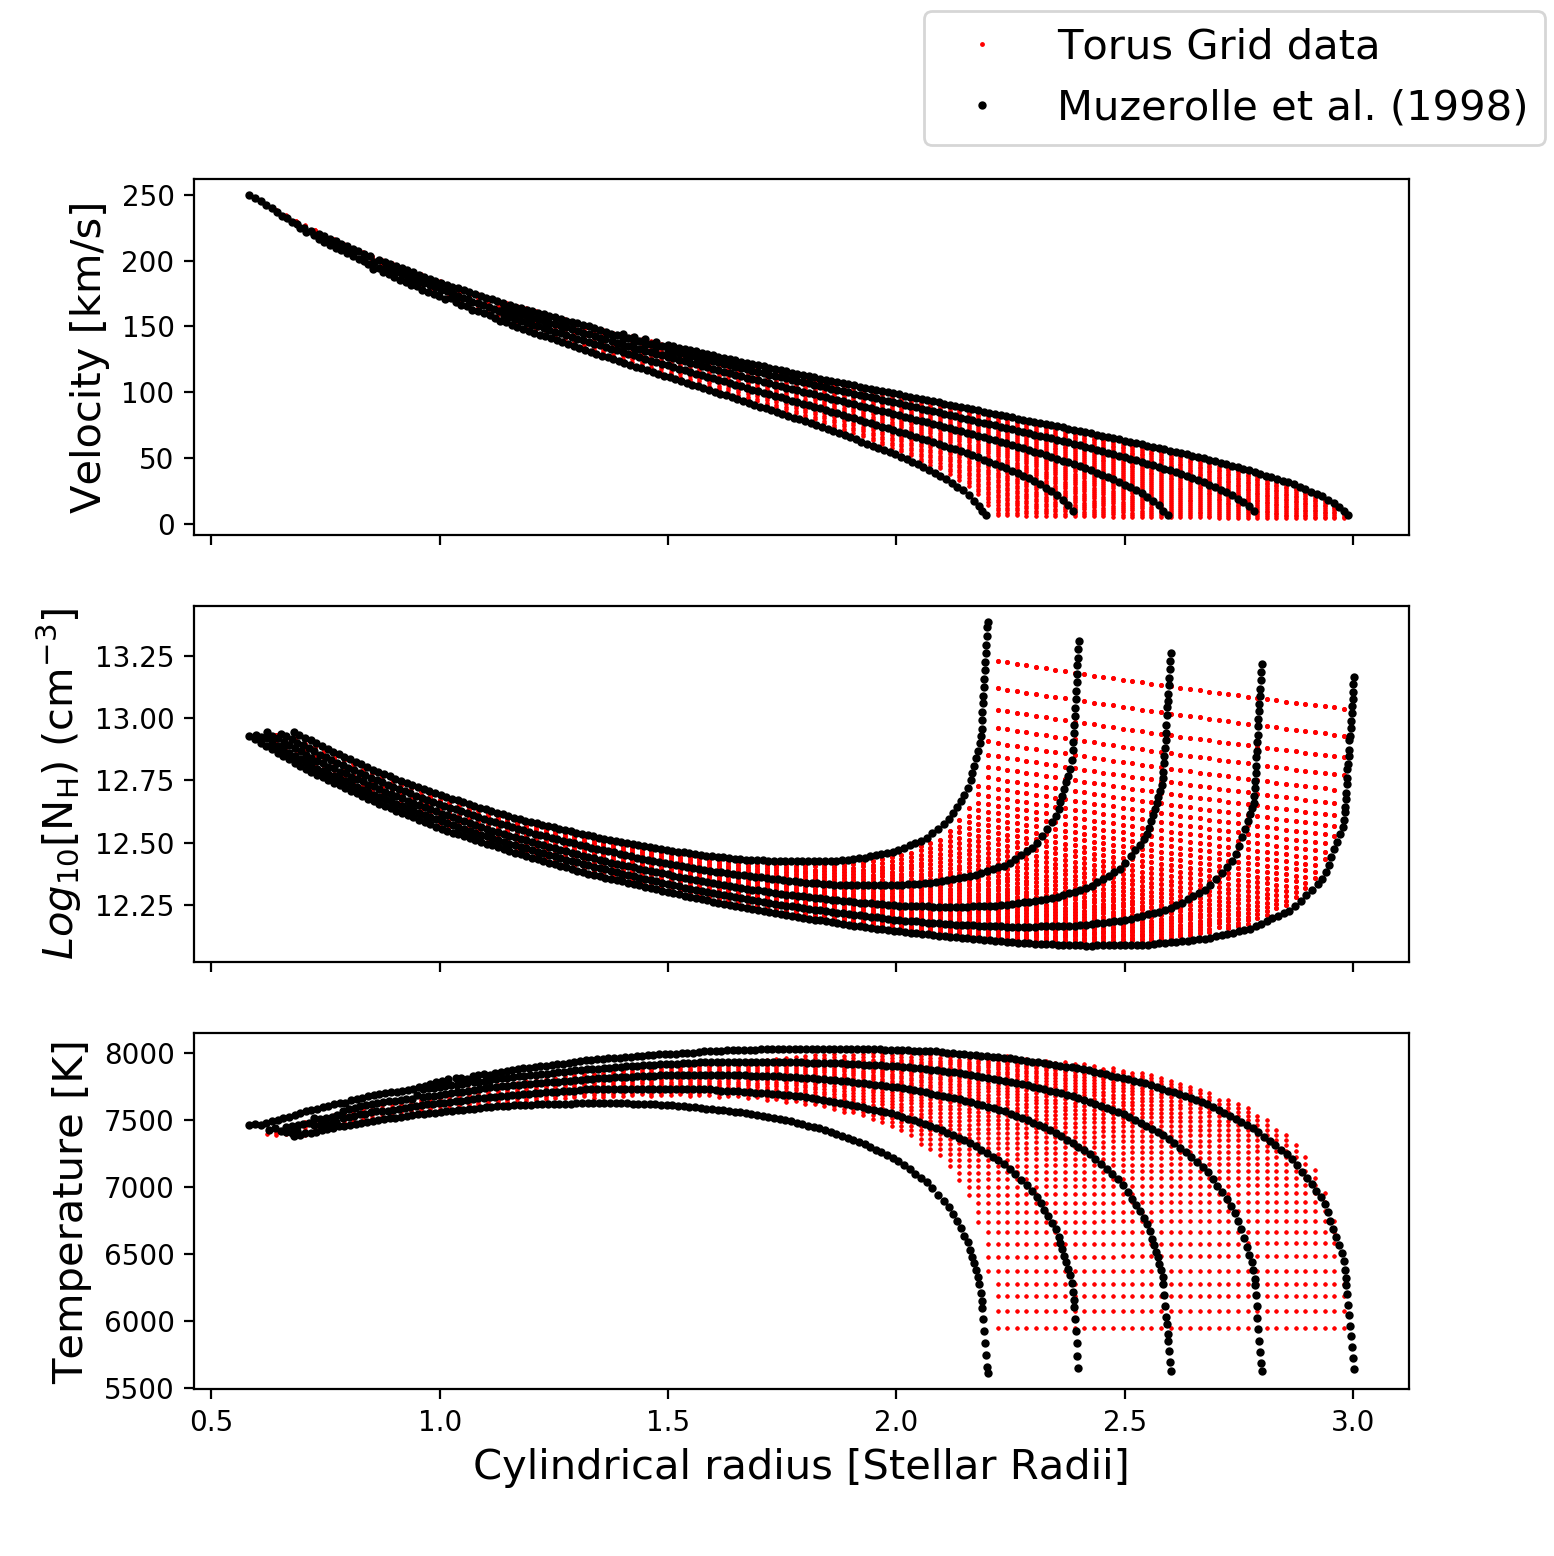
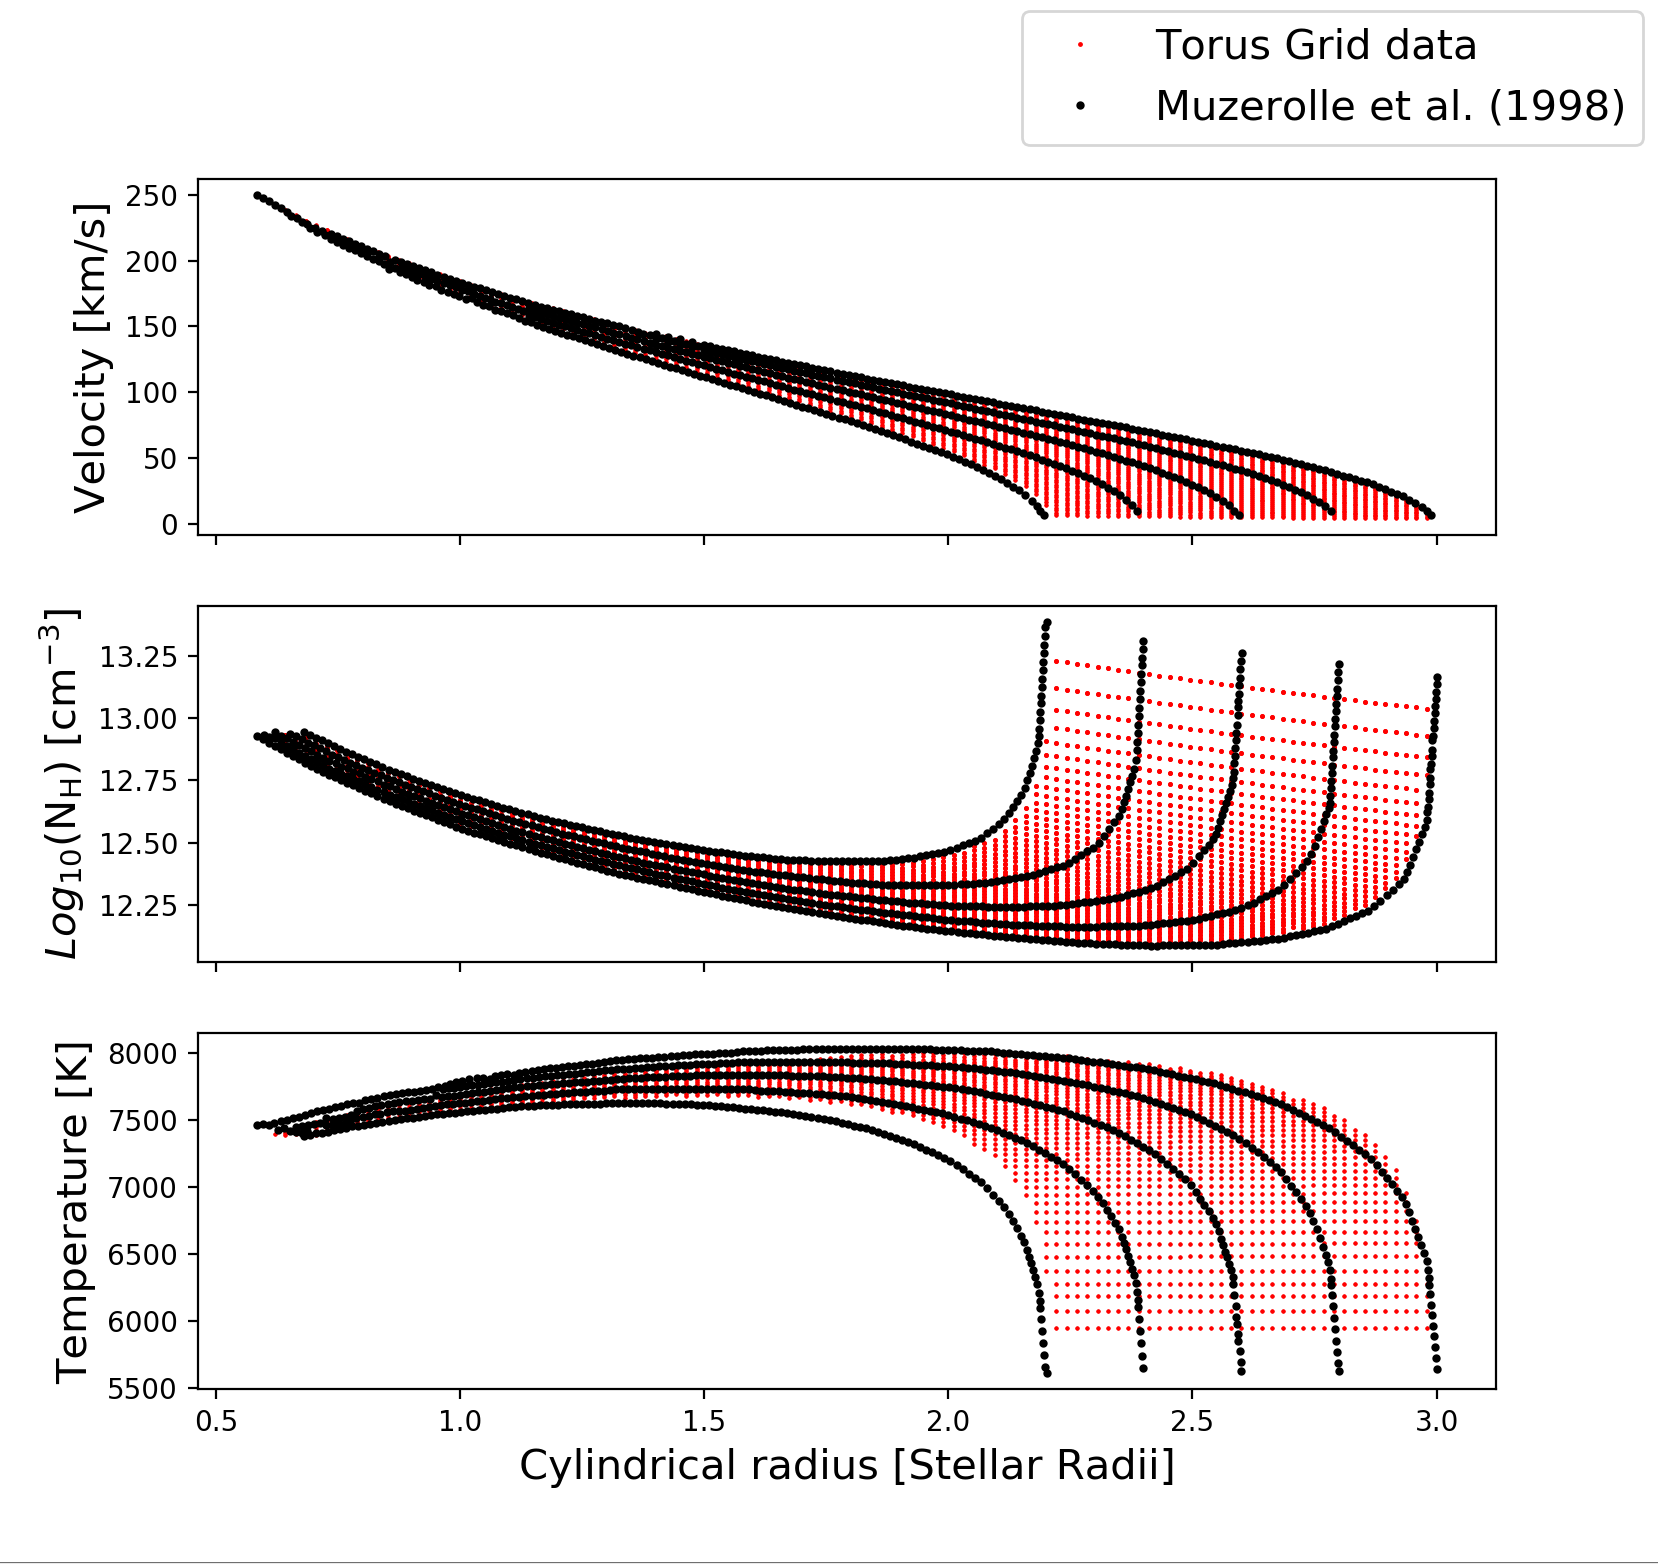
stuff

diff --git a/main.tex b/main.tex
@@ -100,7 +100,7 @@ Understanding the mechanism by which collapsing interstellar clouds lose angular
 Progenitors to Sun-like objects are T Tauri stars. These are low mass ($\lesssim 2 \textrm{M}_\odot$) pre-main sequence stars which show evidence of accretion from a surrounding accretion disk~\citep{1998ApJ...495..385H}. These young stars ($\lesssim3\times10^{6}~\textrm{yrs}$) have strong H$\alpha$ emission and excess UV and infrared continuum emission~\citep{2005MNRAS.358..671K}. The line profiles exhibit both blue shifted absorption and inverse P Cygni features thought to be evidence of outflows and inflows, respectively. Observed accretion rates ($10^{-9}~\textrm{to}~10^{-7}~{\rm M_{\odot} yr^{-1}}$) are expected to be great enough to transfer enough AM to the star to spin it up to well above break up angular velocity $\Omega_B = \sqrt{GM_{*}/R_{*}^3}$~\citep{2005ApJ...632L.135M} where $M_{\ast}$ and $R_{\ast}$ are the stellar mass and radius respectively. However, a relevant fraction of these stars are rotating well below their rotation limit~\citep{1993A&A...272..176B}, and during the few million years of their accretion phase, their rotation remains fairly constant. In this phase of their evolution, these protostars are still accreting and contracting at rates that should spin them up to break velocity within $\sim10^{6}~{\rm yrs}$~\citep{2009A&A...508.1117Z}. There must be an efficient mechanism to spin down the rotation of the T Tauri stars. 
 
 
-It is widely accepted that T Tauri stars have accretion disks. Infrared excess and accretion signatures point to their presence. In recent years interferometric observations have confirmed the presence of disks around young stellar objects, for example, the slightly larger Herbig star system shown by \cite{2012ApJ...752...11K} to have a circumstellar disk. The accretion mechanism of T Tauri stars is thought to be dominated by the strong magnetic fields present, $\sim 10^{3}~\textrm{G}$~\citep{2012MNRAS.426.2901K}. \citet{1991ApJ...370L..39K} proposed that the accretion mechanism is similar to that of neutrons stars proposed by~\citet{1977ApJ...217..578G}. The magnetic field truncates the accretion radius at some radii $R_T$. where the magnetic and material stresses are of the same order; $B^2/8\pi = p + \rho v^2$, where $B$, $p$, $\rho$ and $v$ are the magnetic field, pressure, density, and velocity respectively~\citep{Romanova:2002hc}. Material is lifted from the disk and free-falls to the stellar surface where it forms a shock region, as the infalling matter exceeds the sound speed of the plasma. The large energy release in these shock zones could be responsible for the high UV excess observed~\citep{2009A&A...508.1117Z}. The accreting matter carries AM to the star and acts to `spin-up' the star. For a given accretion rate $\dot{M}_{acc}$ the `spin-up' rate can be quantified as a torque~\citep{2005ApJ...632L.135M}
+It is widely accepted that T Tauri stars have accretion disks. Infrared excess and accretion signatures point to their presence. In recent years interferometric observations have confirmed the presence of disks around young stellar objects, for example, the slightly larger Herbig star system shown by \cite{2012ApJ...752...11K} to have a circumstellar disk. The accretion mechanism of T Tauri stars is thought to be dominated by the strong magnetic fields present, $\sim 10^{3}~\textrm{G}$~\citep{2012MNRAS.426.2901K}. \citet{1991ApJ...370L..39K} proposed that the accretion mechanism is similar to that of neutrons stars proposed by~\citet{1977ApJ...217..578G}. The magnetic field truncates the accretion radius at some radii $R_T$ (see Figure~\ref{fig:accretionflow}). where the magnetic and material stresses are of the same order; $B^2/8\pi = p + \rho v^2$, where $B$, $p$, $\rho$ and $v$ are the magnetic field, pressure, density, and velocity respectively~\citep{Romanova:2002hc}. Material is lifted from the disk and free-falls to the stellar surface where it forms a shock region, as the infalling matter exceeds the sound speed of the plasma. The large energy release in these shock zones could be responsible for the high UV excess observed~\citep{2009A&A...508.1117Z}. The accreting matter carries AM to the star and acts to `spin-up' the star. For a given accretion rate $\dot{M}_{acc}$ the `spin-up' rate can be quantified as a torque~\citep{2005ApJ...632L.135M}
 
 \begin{equation}
     \tau_{acc} = \dot{M}_{acc}\sqrt{GM_{\ast}R_{T}}.
@@ -211,6 +211,13 @@ The observed flux for a cell of the grid image is the summation of the specific 
 
 \section{The models}
 \label{sec:model}
+
+\begin{figure}
+    \centering
+    \includegraphics[width=\linewidth]{figures/Accretion}
+    \caption{A diagram showing the accretion flow and the density of the flow for a typical set up with an accretion rate of $10^{-7}$ solar masses per year.}
+    \label{fig:accretionflow}
+\end{figure}
 TORUS uses an adaptive mesh refinement (AMR) to create a grid of cell through which it can compute the level populations and intensities.  A numerical grid representing the physical space of the simulation is created, and the coarseness of the cells is adapted to balance both the accuracy of the simulation and the efficiency. Too coarse a grid will lose details and may miss features such as areas of high opacity, whereas too fine a grid will run excessively slow and consume large amounts of computational resources.
 
 The work here presents the simulation of T Tauri star-disk systems. For this, the mesh is populated with a star, disk, accretion flow and potentially outflows. The density, temperatures and velocities fields are defined to simulate a T Tauri system. Future work will load in this data as an output from MHD simulations, but at present, this is done analytically. TORUS can include He in the simulations although this is as yet unvalidated. 
@@ -218,7 +225,7 @@ The work here presents the simulation of T Tauri star-disk systems. For this, th
 The star is placed at the origin of the grid and assumed to have an atmosphere as modelled by~\citet{1979ApJS...40....1K}. The disk is treated as a geometrically thin, optically thick disk. Rays that intersect with it are terminated, no continuum or dust emission from the disk is currently included in the model, although this will be implemented in future work.
 
 \subsection{Accretion Funnel}
-\label{sec:accretionflow}
+\label{sec:accretion}
 The geometry and parameters of the accretion flow are similar to those described by \citet{1998ApJ...495..385H}. The inner radius of the accretion flow is where the disk is truncated $R_{T}$. The outer radius $R_{\rm out}$ of the accretion flow is assumed to be the corotation radius, to avoid a ring of rapid acceleration where the disk spins up or down to match the magnetic field which is rotating as a rigid body with the star. Although MHD simulation show a twisting of the magnetic fields~\citep[e.g.][]{Uzdensky:2002dg} this is ignored in these simulation and the magnetic field is assumed to have only a poloidal component.
 
 The accreting matter free flows following the dipole magnetic field impacting on the surface of the star creating a hot spot. The temperature of the hot spot is calculated from the potential energy liberated as the matter falls to a lower radius.
@@ -244,16 +251,32 @@ The density of the accretion flow is taken from~\citep{Hartmann:1994tl}. For an 
 \begin{equation}
     \rho = \frac{\dot{M}_{\rm acc}}{4\pi(1/R_T - 1/R_{\rm out})}\frac{R^{-5/2}}{\sqrt{2GM_{\ast}}}\frac{\sqrt{4-3\sin^2\theta}}{\sqrt{1-\sin^2\theta}}
 \end{equation}
-The temperature distribution of the accretion flow is more problematic. The synthetic emission lines are very sensitive to temperature variations in these regions but exact mechanism of heating is debated. The temperature profile adopted is similar that used by~\citet{Hartmann:1994tl,1998AJ....116..455M} which assumes a volumetric heating $\propto R^{-3}$ balanced by radiative cooling. Figure~\ref{fig:density} shows the temperature, density and velocity distributions used in our models compared to those used by~\citet{1998AJ....116..455M}.
+The temperature distribution of the accretion flow is more problematic. The synthetic emission lines are very sensitive to temperature variations in these regions but exact mechanism of heating is debated. The temperature profile adopted is similar that used by~\citet{Hartmann:1994tl,1998ApJ...492..743M} which assumes a volumetric heating $\propto R^{-3}$ balanced by radiative cooling. Figure~\ref{fig:density} shows the temperature, density and velocity distributions used in our models compared to those used by~\citet{1998ApJ...492..743M}.
 \begin{figure}
     \centering
     \includegraphics[width=\linewidth,trim={0 1cm 0 0},clip]{figures/density}
-    \caption{Caption}
+    \caption{A plot of the velocity (top), density (middle) and temperature (bottom) distribution in the accretion flow plotted against the radius. Red marks are taken from the TORUS grid points and the black points are the distribution used by~\citet{1998ApJ...492..743M}}
     \label{fig:density}
 \end{figure}
 
+Based on the work by~\citet{Mahdavi:1998fw} TORUS allows 3D models to have an offset $\beta$ to the magnetic dipole from the rotation axis. The result of this is a preferable accretion on opposite sides of the star, see Figure~\ref{fig:3Doffset}.
+\begin{figure}
+    \centering
+    \includegraphics[width=\linewidth,trim={2cm 1cm 2cm 1cm},clip]{figures/3Doffset}
+    \caption{A 3D rendering of T Tauri star set up where a 10 degree magnetic offset has been stipulated. The accretion flow is in opposite hemispheres, favouring the shortest route to stellar surface. Part of the wind and accretion flow have been cut away showing the star and hot spot zones.}
+    \label{fig:3Doffset}
+\end{figure}
 
 \subsection{Stellar Wind}
+TORUS contained the code to initialise spherical isotropic stellar wind into the simulation grid. However, this is a unphysical description of possible stellar winds when in conjunction with disks and magnetospheric accretion. A better approximation is a wind that flows along the open magnetic field lines above the magnetospheric accretion funnel flow~\citep[e.g.][]{2009A&A...508.1117Z} see Figure~\ref{fig:zanni}.
+\begin{figure}
+    \centering
+    \includegraphics[width=\linewidth]{figures/zanni}
+    \caption{MHD simulation snapshot reproduced from~\citet{2009A&A...508.1117Z}, showing the connected disk, stellar and disk winds, and magnetospheric Ejection; another possible mechanism for angular momentum loss. The stellar wind flows along the open magnetic field lines.}
+    \label{fig:zanni}
+\end{figure}
+
+A newly updated wind system is now available in TORUS, which allows the system to have a polar wind from either pole. Unlike the work by~
 
 \section{Current Results}
 \label{sec:results}
